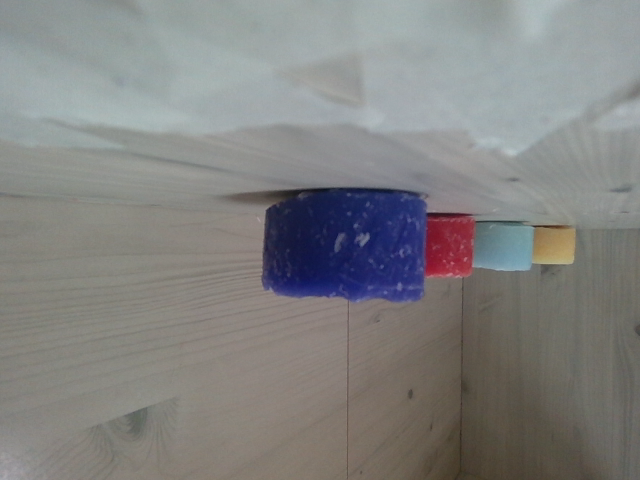
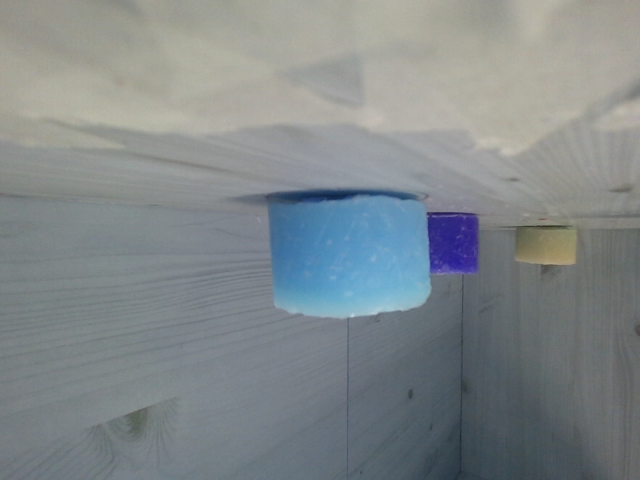
update

diff --git a/src/main/eval.py b/src/main/eval.py
@@ -50,9 +50,9 @@ class SO100Robot:
             self.config.cameras = {}
         else:
             # Initialize all three cameras
-            self.right_camera = cv2.VideoCapture(13)  # Right camera
-            self.left_camera = cv2.VideoCapture(3)   # Left camera
-            self.down_camera = cv2.VideoCapture(10)   # Down camera
+            self.right_camera = cv2.VideoCapture(2)  # Right camera
+            self.left_camera = cv2.VideoCapture(0)   # Left camera
+            self.down_camera = cv2.VideoCapture(8)   # Down camera
             
             # Set camera properties for all cameras
             for camera in [self.right_camera, self.left_camera, self.down_camera]:
@@ -394,10 +394,10 @@ if __name__ == "__main__":
                     # view_img(imgs)
 
                     state = robot.get_current_state()
-                    imgs['right'] = cv2.cvtColor(imgs['right'], cv2.COLOR_RGB2BGR)
-                    imgs['left'] = cv2.cvtColor(imgs['left'], cv2.COLOR_RGB2BGR)
-                    imgs['down'] = cv2.cvtColor(imgs['down'], cv2.COLOR_RGB2BGR)
-                    # view_img_cv2(imgs)
+                    imgs['right'] = cv2.cvtColor(imgs['right'], cv2.COLOR_BGR2RGB)
+                    imgs['left'] = cv2.cvtColor(imgs['left'], cv2.COLOR_BGR2RGB)
+                    imgs['down'] = cv2.cvtColor(imgs['down'], cv2.COLOR_BGR2RGB)
+                    view_img_cv2(imgs)
 
                     
                     action = client.get_action(imgs, state) 

diff --git a/test/camera.py b/test/camera.py
@@ -19,7 +19,7 @@ def main():
     print(f"Available cameras: {available_cameras}")
     
 
-    cap = cv2.VideoCapture(13)
+    cap = cv2.VideoCapture(8)
     
     # Check if the camera opened successfully
     if not cap.isOpened():

diff --git a/motor_ports.md b/motor_ports.md
@@ -32,10 +32,10 @@ sudo udevadm control --reload && sudo udevadm trigger
 
 
 
-camera right = 13
+camera right = 2
 
 
-camera left = 3
+camera left = 0
 
 camera3 - real = 10
 
